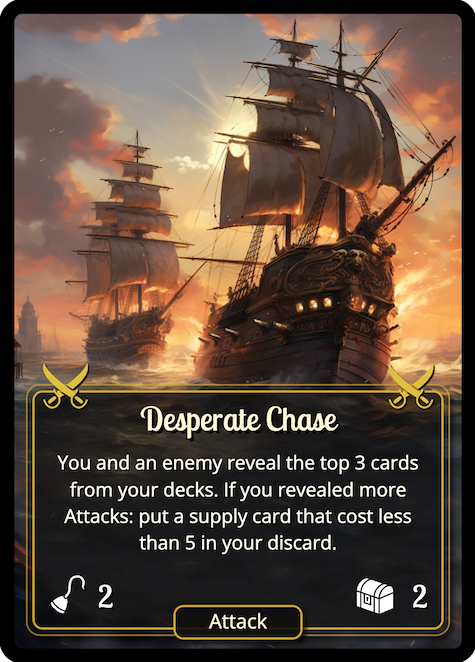
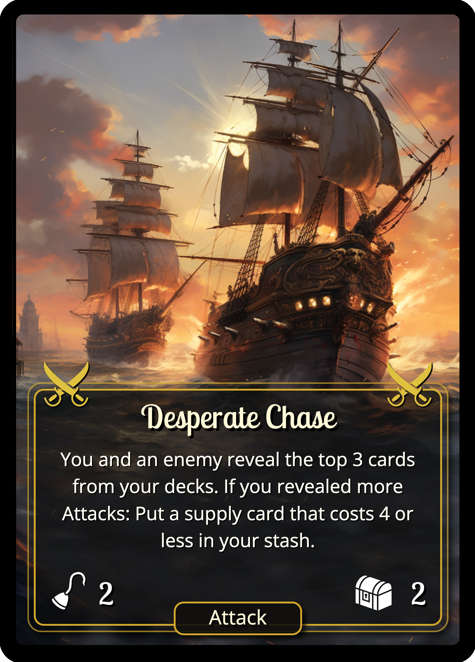
Fix mistake

diff --git a/deckhand/cards.en.js b/deckhand/cards.en.js
@@ -146,7 +146,7 @@ var cards = [
 
 {
     'title': 'Imperial Powder',
-    'text': '+1 :Treasure:. If you lose ownership of this card: Remove from the game a card from target enemy’s stash that cost 2 or less.',
+    'text': '+1 :Treasure:. If you lose ownership of this card: Remove from the game a card from target enemy’s stash that costs 2 or less.',
     'flavor': 'WARNING: does not roll, shock, or sway.',
     'img': 'structures/powder-keg.png',
     'type': 'structure',
@@ -205,8 +205,8 @@ var cards = [
 
 {
     'title': 'Typhoon',
-    'text': '+2 :Card:, +1 :Discard:, +1 :Treasure:. All players move a card from their stash or, if unable, top deck to their left neighbor’s stash.',
-    'flavor': 'A Swirling chaos! A navigational nightmare!',
+    'text': '+2 :Card:, +1 :Discard:, +1 :Treasure:. All players move a card simultaneously from their stash or, if unable, top deck to their left neighbor’s stash.',
+    //'flavor': 'A Swirling chaos! A navigational nightmare!',
     'reduced-font-size': '9.3px',
     'img': 'adventures/tornado.png',
     'type': 'adventure',
@@ -577,7 +577,7 @@ var cards = [
 {
     'title': 'Desperate Chase',
     'text': 'You and an enemy reveal the top 3 cards from your decks. If you revealed more Attacks: \
-    Put a supply card that cost 4 or less in your stash.',
+    Put a supply card that costs 4 or less in your stash.',
     //'reduced-font-size': '9.3px',
     //'flavor': 'Sails ablaze, cannons roar, a final duel in pursuit.',
     'img': 'attacks/chase-2.png',

diff --git a/deckhand/design.html b/deckhand/design.html
@@ -107,9 +107,9 @@
                 <li><b>+1 Buy:</b> You may Buy a card without using an Action this turn.</li>
                 <li><b>+1 <img class="rule-icon star" src="icons/card-discard.svg" />:</b> Discard a card immediately into your stash.</li>
                 <li>Pay 1: Put one of your Treasure into the bank.</li>
-                <li>Apply card effects <b>in the written order</b>. If effects would trigger at the same time, you choose the order.
-                    You may only gain and use <img class="rule-icon star" src="icons/star.svg" />, <img class="rule-icon star" src="icons/cycle-2.svg" /> or Buys during your turn.</li>
                 <li>While being played, cards are not in your hand or stash.</li>
+                <li>Apply card effects <b>in the written order</b>. If effects would trigger at the same time, the initiator of the first effect chooses the order.
+                    You may only gain and use <img class="rule-icon star" src="icons/star.svg" />, <img class="rule-icon star" src="icons/cycle-2.svg" /> or Buys during your turn.</li>
                 <!-- <li>Cards have 3 possible types: Attack, Structure, Adventure.</li> -->
                 <li>You can only Discard cards from your hand.
                     Arrange your stash face up to allow for examination at a glance.
